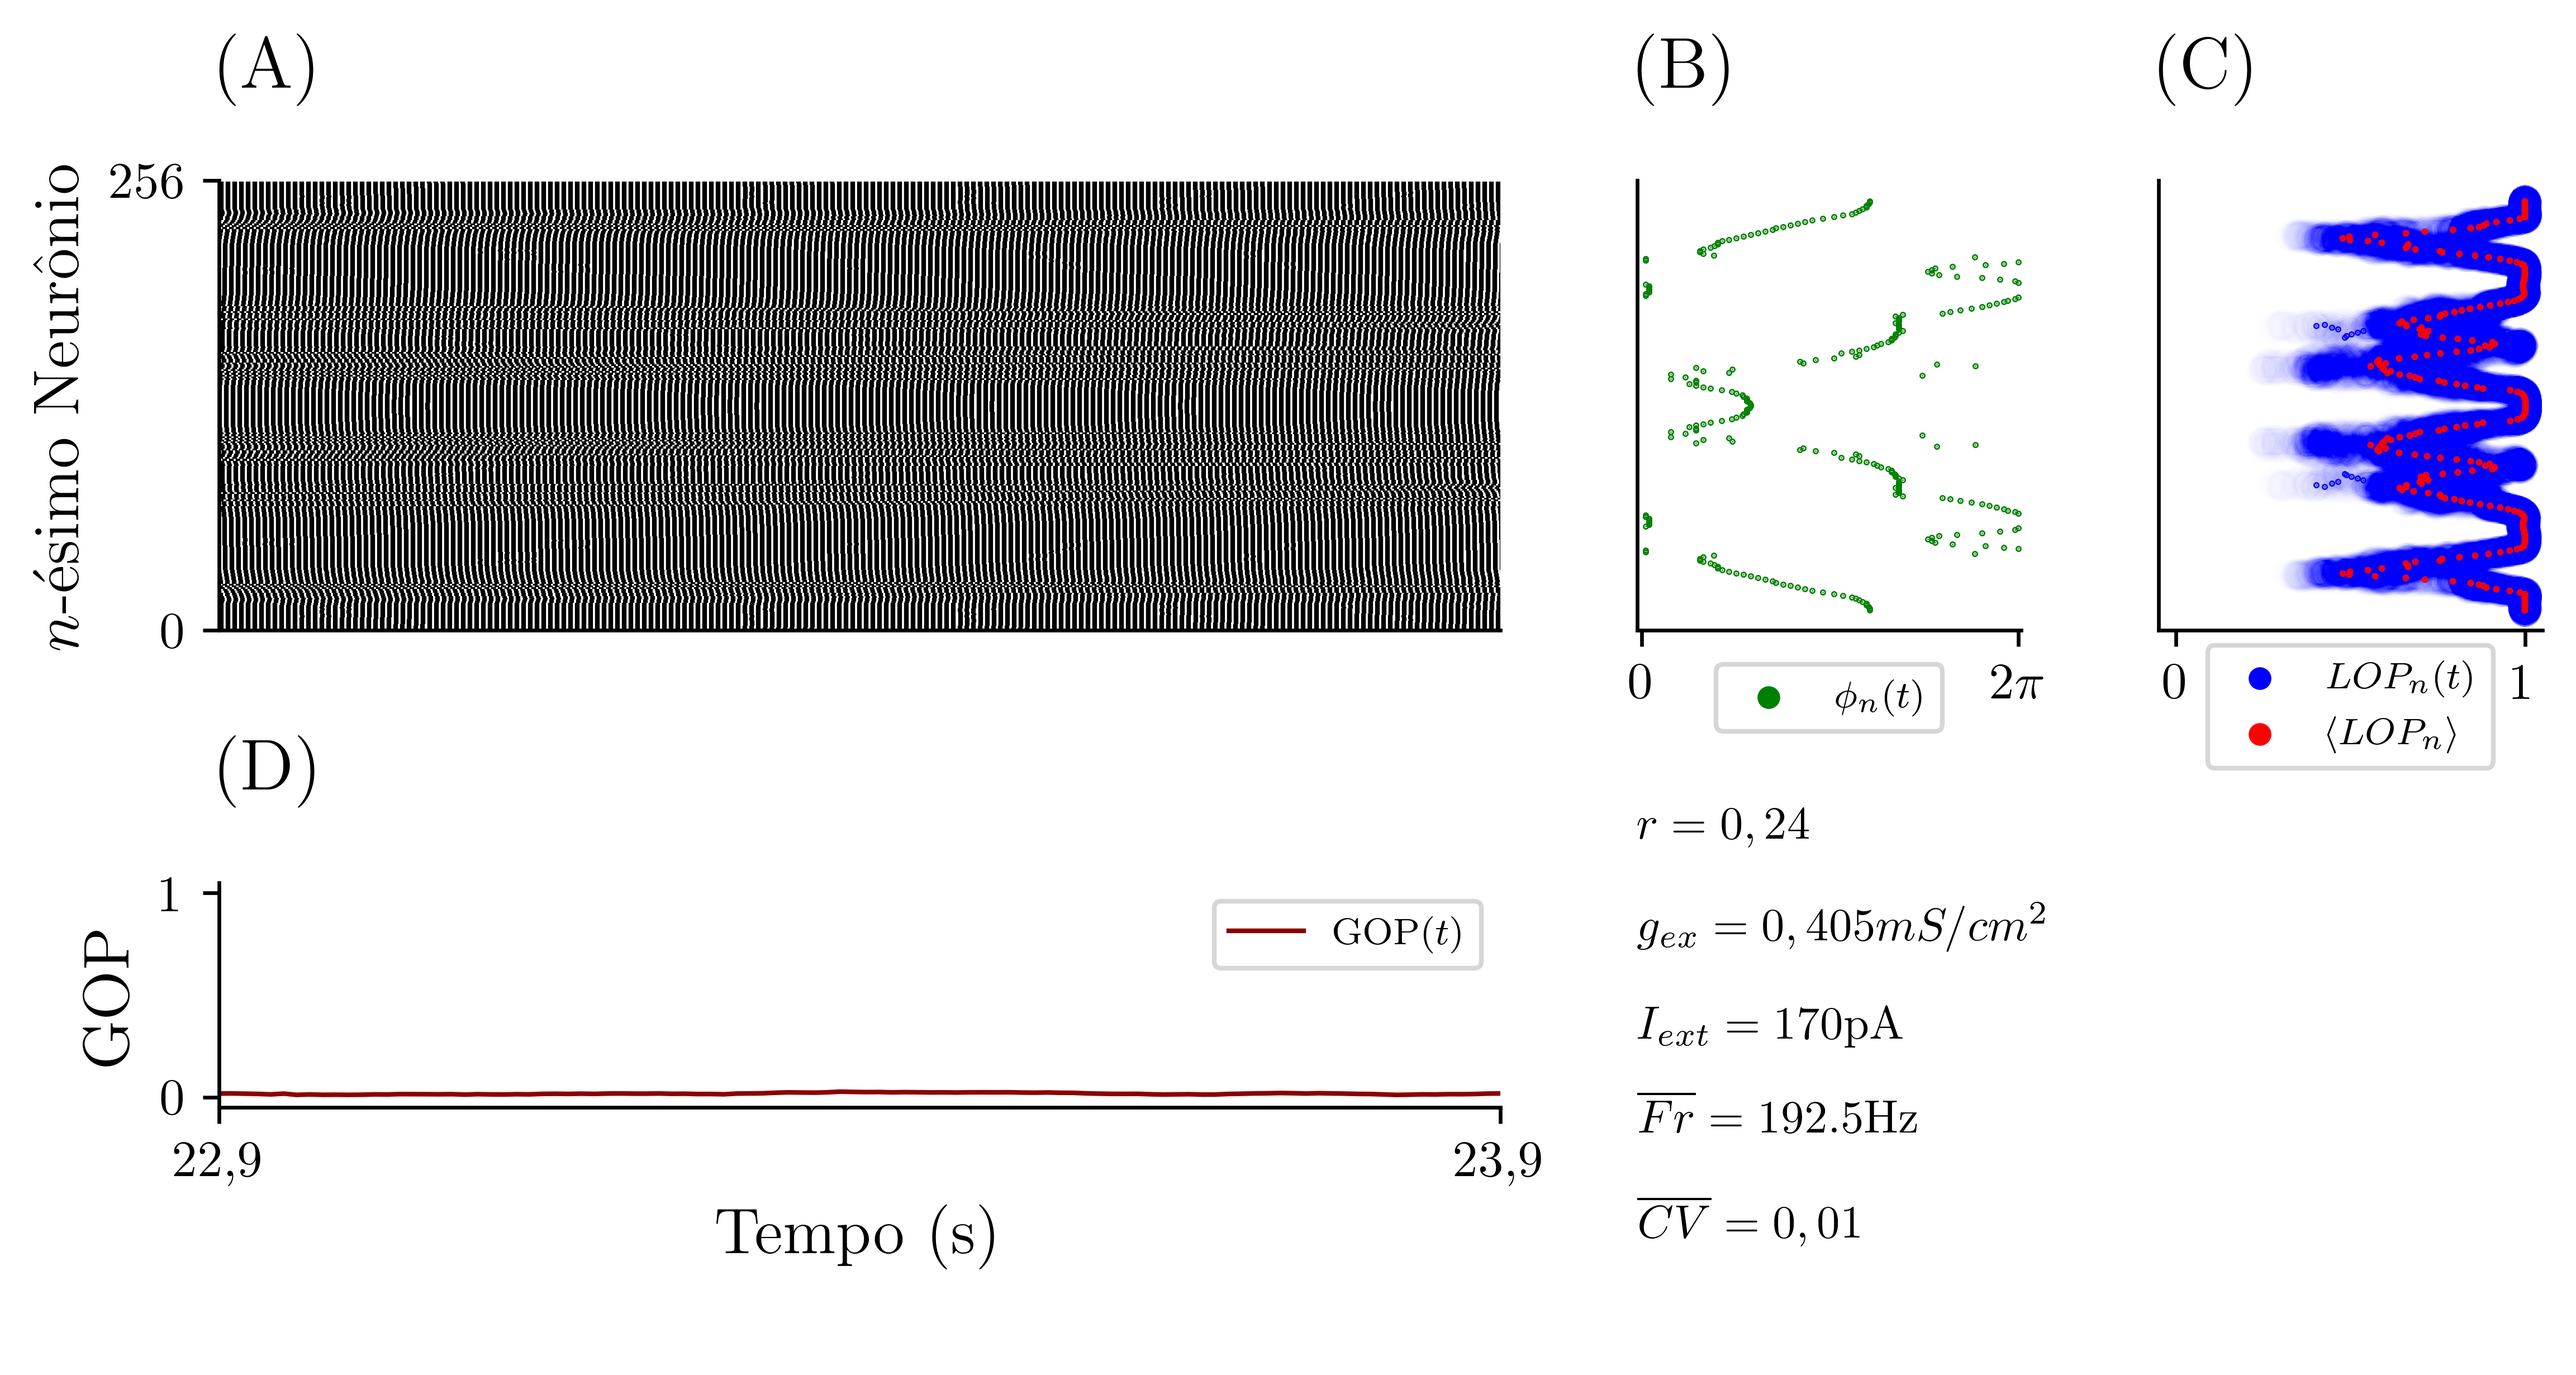
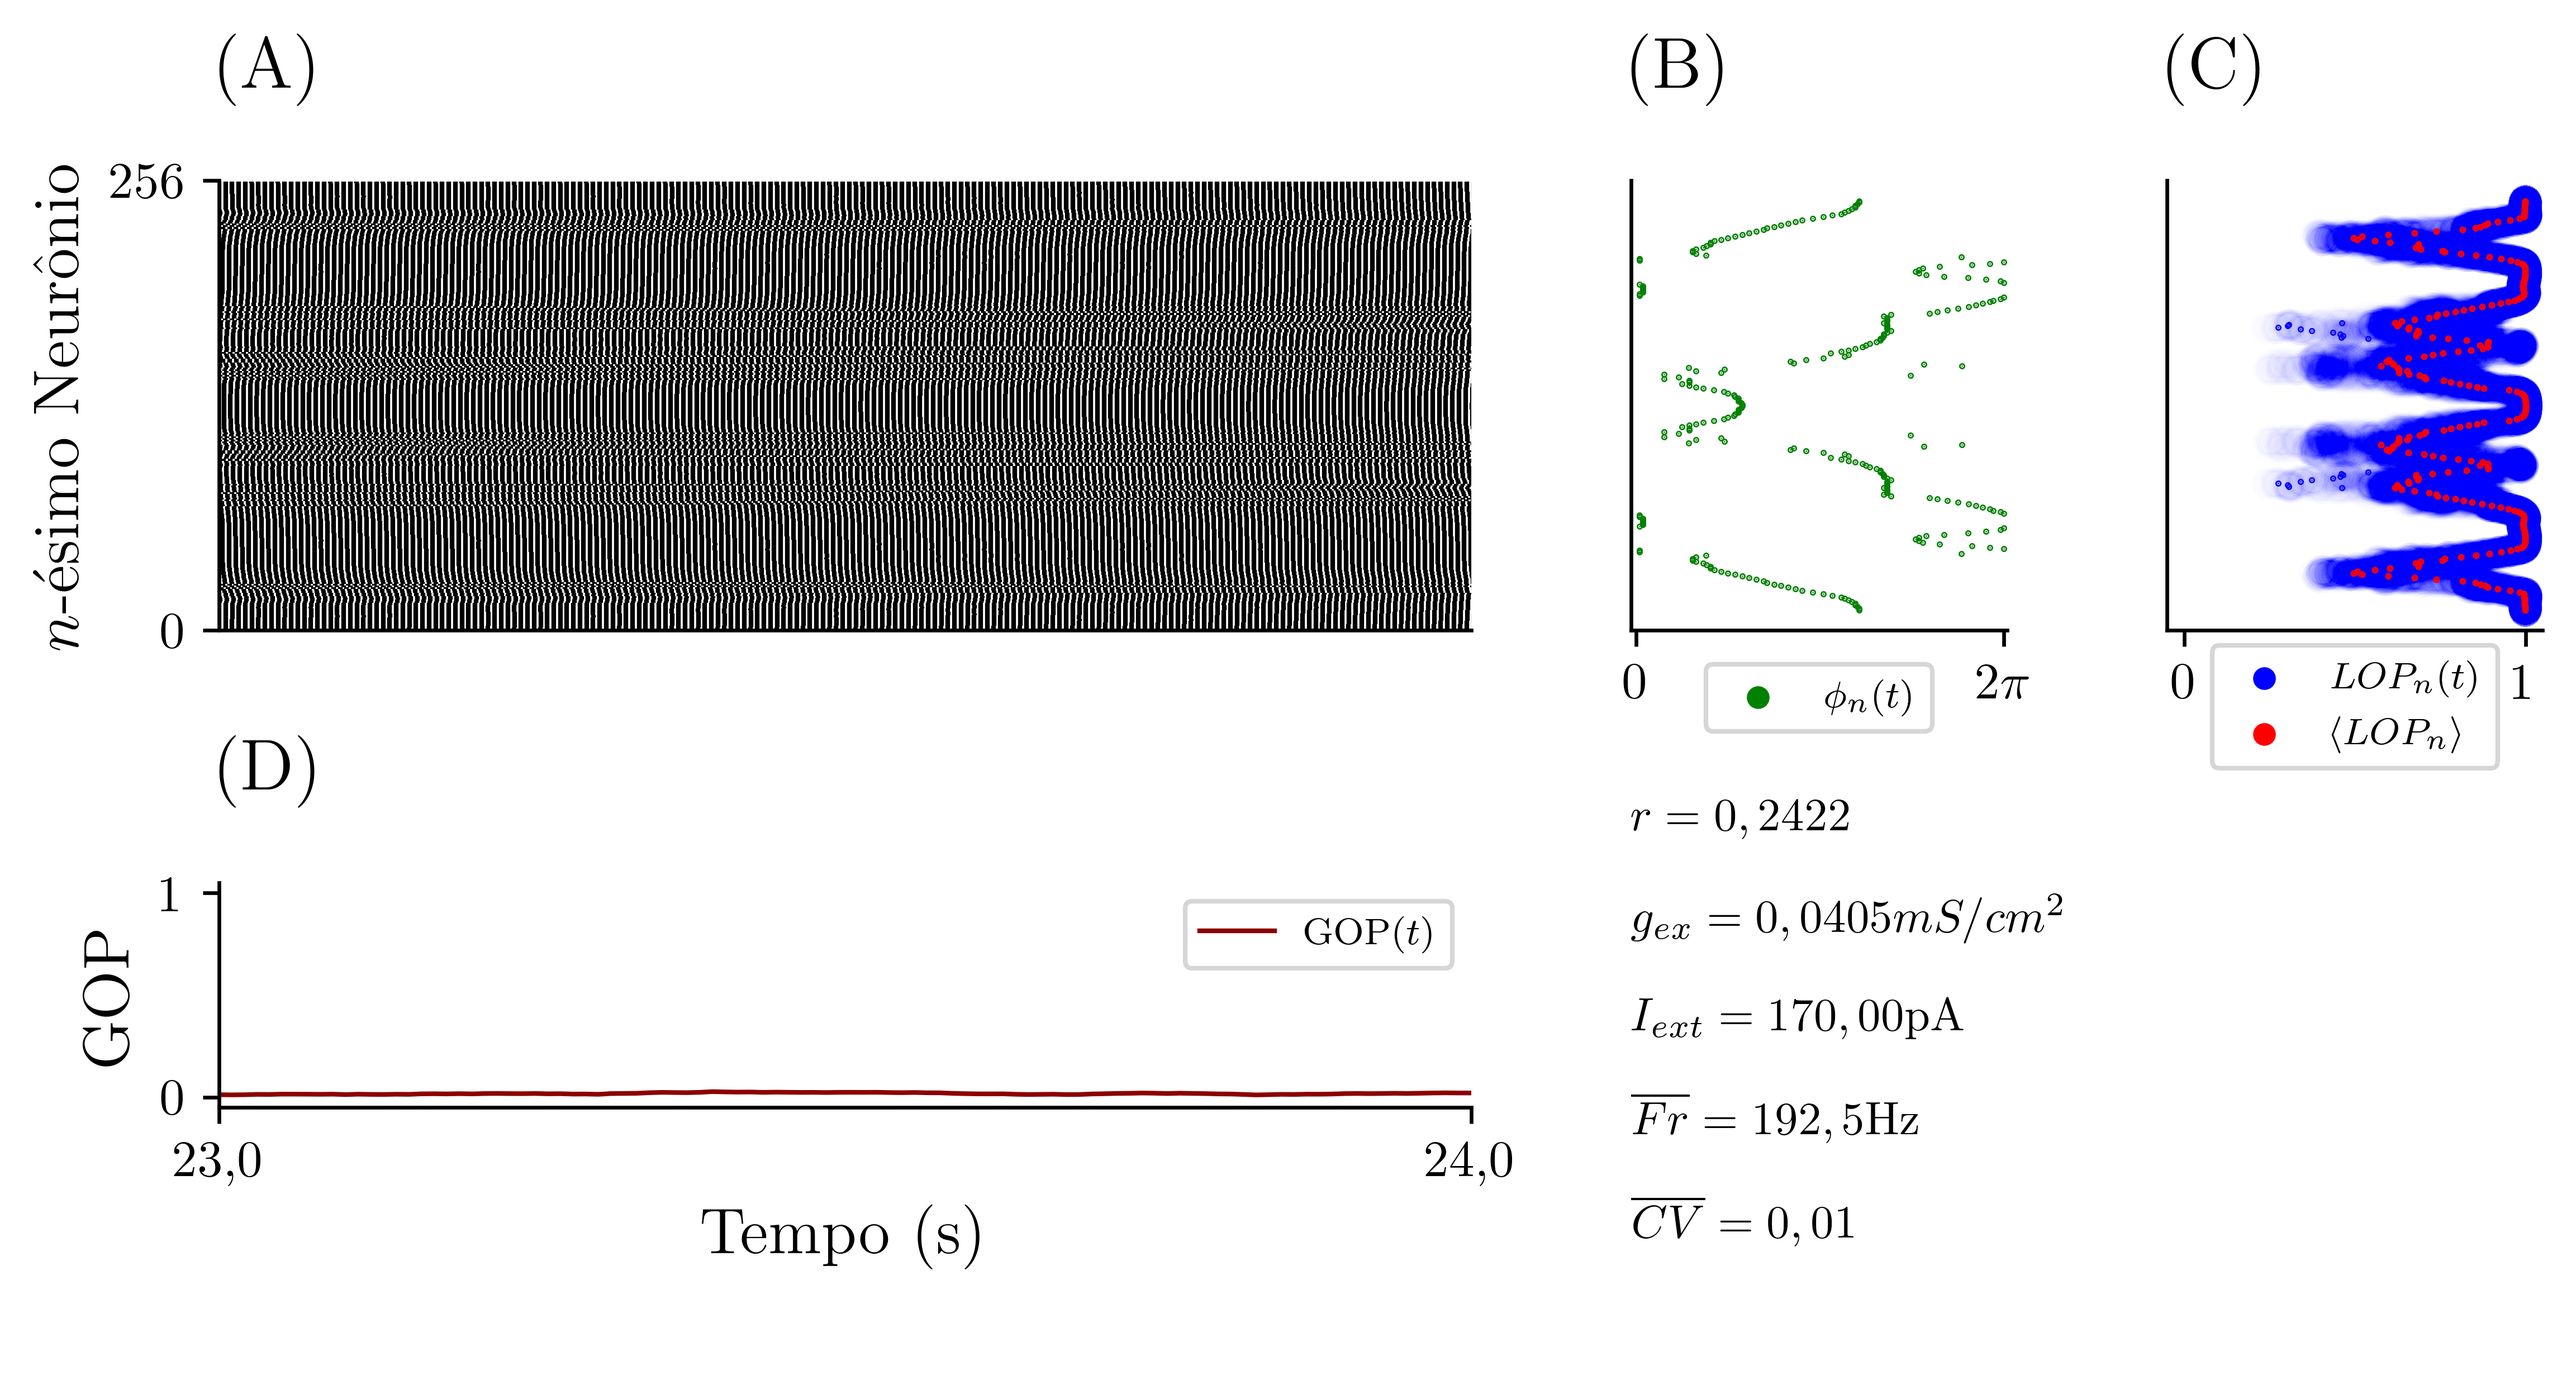
update figures

diff --git a/pycodes/plotAll.py b/pycodes/plotAll.py
@@ -51,8 +51,8 @@ def plotAll(path):
     gop = data['GOP']
     lop = data['LOP_delta'][5]
 
-    ti = -210
-    tf = -110
+    ti = -201
+    tf = -101
 
     gop_sample = gop[ti:tf]
     lop_sample = lop[:,ti:tf]
@@ -122,14 +122,14 @@ def plotAll(path):
     ax[1][0].legend(loc='upper right')
 
 
-    raio = '$r = '+f'{neighbours/cellNumber:.2f}'.replace('.',',')+'$\n\n'
-    g = '$g_{ex}='+f'{gex:.3f} mS/cm^2'.replace('.',',')+'$\n\n'
-    i = '$I_{ext}='+f'{int(amp)}'+'$pA\n\n'
+    raio = '$r = '+f'{neighbours/cellNumber:.4f}'.replace('.',',')+'$\n\n'
+    g = '$g_{ex}='+f'{gex/10:.4f} mS/cm^2'.replace('.',',')+'$\n\n'
+    i = '$I_{ext}='+f'{amp:.2f}'+'$pA\n\n'
     fr = '$\overline{Fr} = '+f'{freq_mean:.1f}$'+'Hz\n\n'
     cv_mean = '$\overline{CV}='+f'{cv:.2f}'.replace('.',',')+'$\n\n' 
 
     infos = raio+g+i+fr+cv_mean
-    ax[1][1].annotate(infos, xy = (0,0), xytext=(0,-1), fontsize=10)
+    ax[1][1].annotate(infos.replace('.',','), xy = (0,0), xytext=(0,-1), fontsize=10)
     ax[1][1].yaxis.set_visible(False)
     ax[1][1].xaxis.set_visible(False)
     ax[1][1].spines['right'].set_visible(False)
@@ -156,15 +156,6 @@ def plotAll(path):
     plt.savefig(f'{file}.png', dpi=600, bbox_inches='tight', format='png')
 
     print('\n~~')
-
-
-# v = str(sys.argv[1])
-# i = str(sys.argv[2])
-# j = str(sys.argv[3])
-# folder = f'../figuresV2/'
-# file = f'../figuresV2/v{v}_batch1_{i}_{j}'
-
-# path = str(input('Path of file: '))
 
 folder = '../regioes_v3_batch1/'
 
